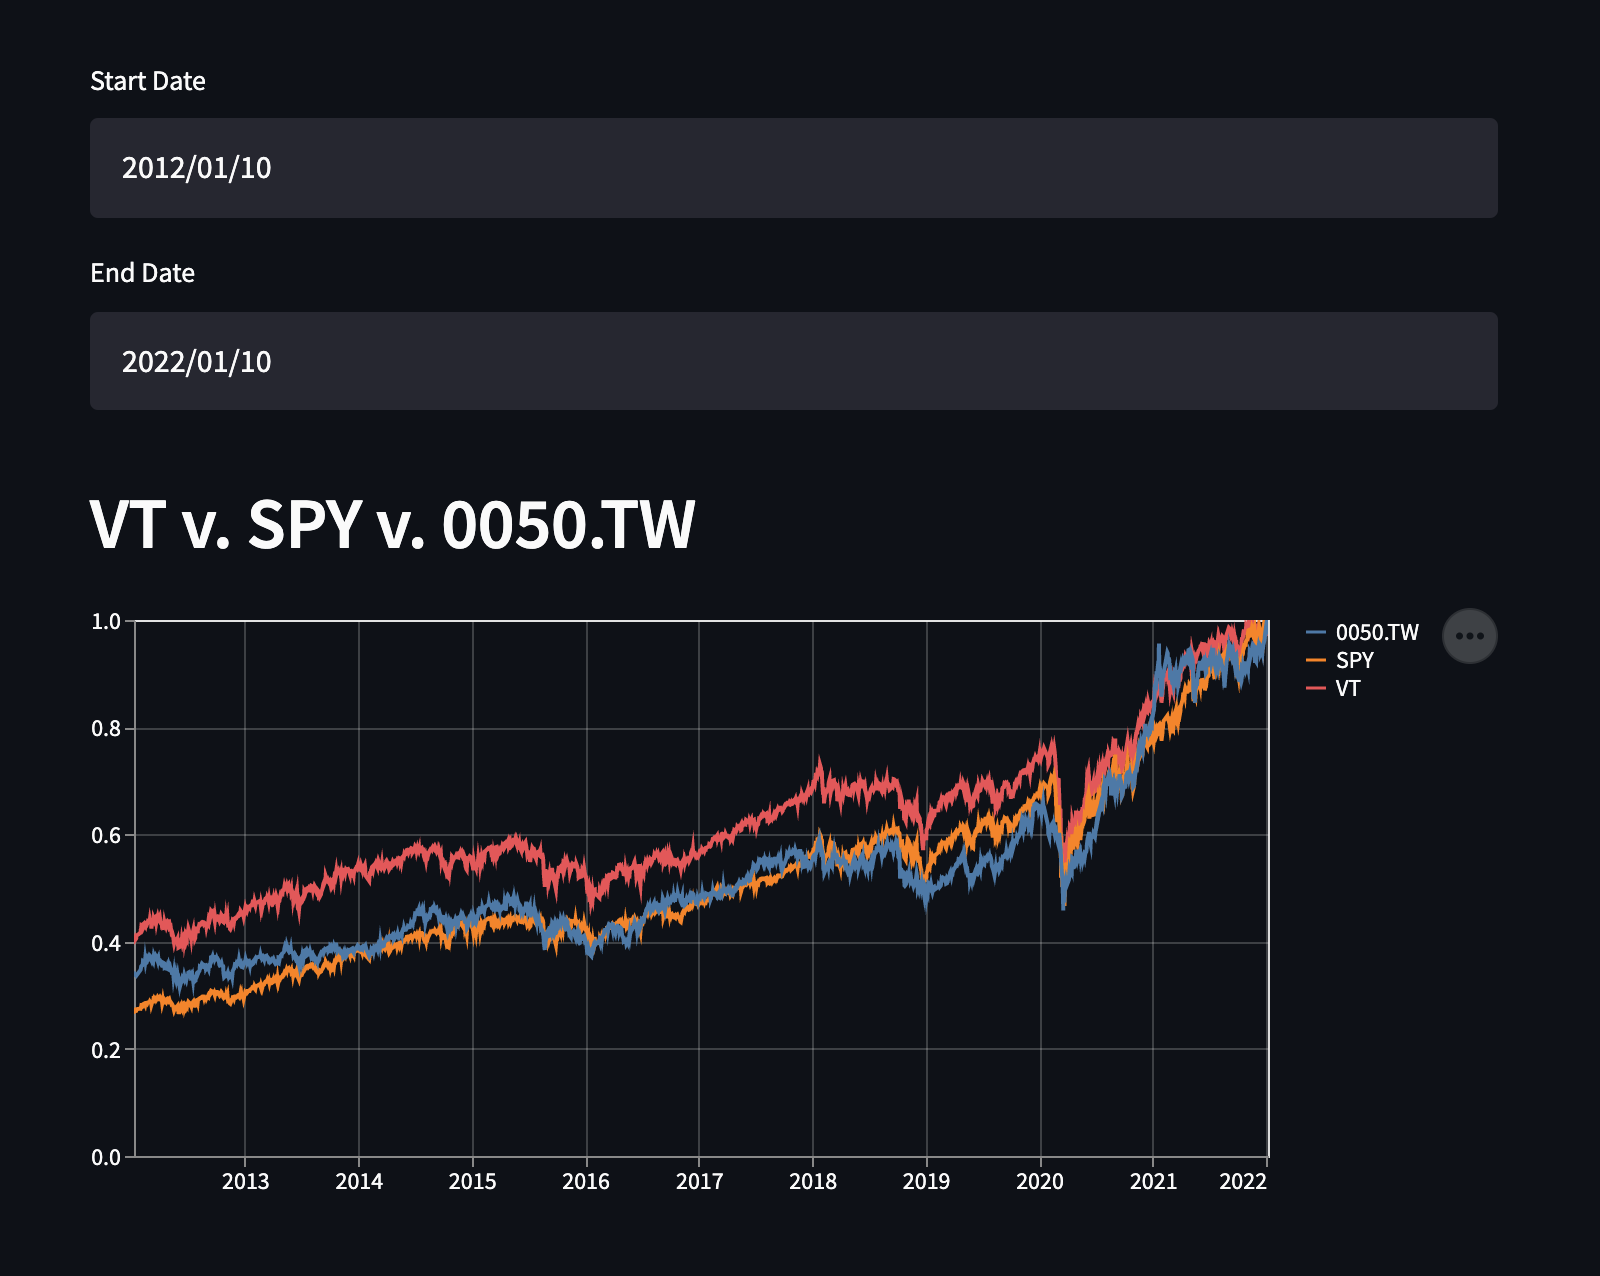
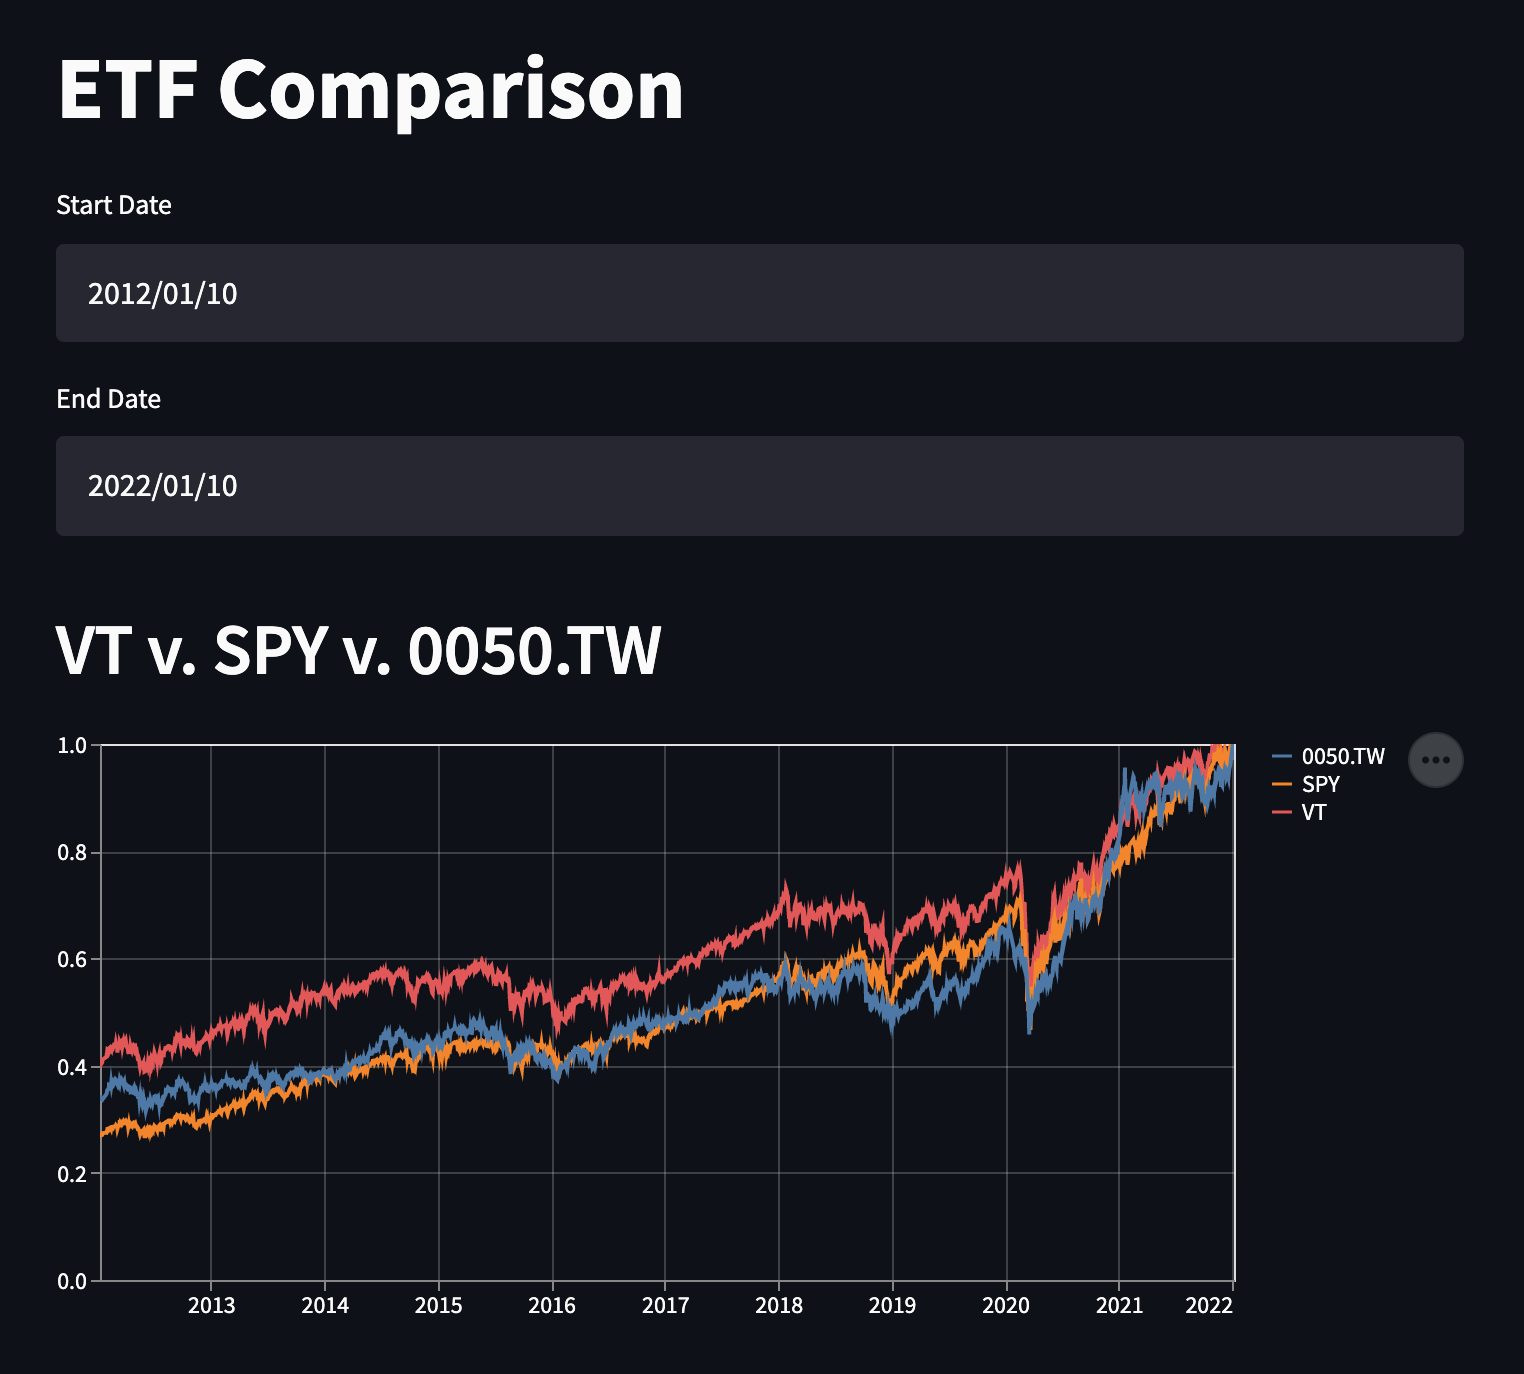
Add the title on the app page

diff --git a/etf-comparison.py b/etf-comparison.py
@@ -3,6 +3,10 @@ import streamlit as st
 
 import utils
 
+st.write("""
+# ETF Comparison
+""")
+
 today = date.today()
 start_date = st.date_input("Start Date", today.replace(year=today.year - 10))
 end_date = st.date_input("End Date", today)
